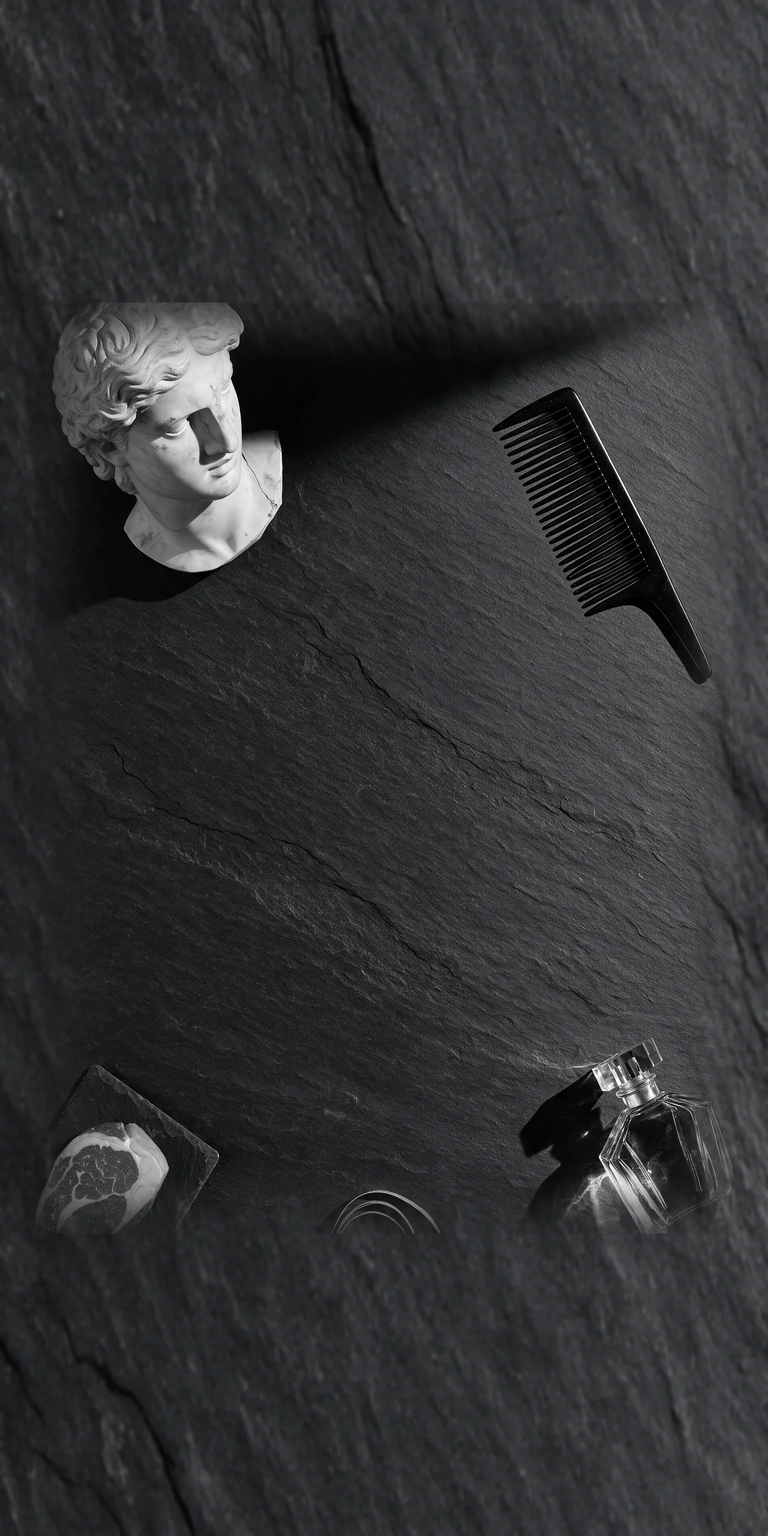
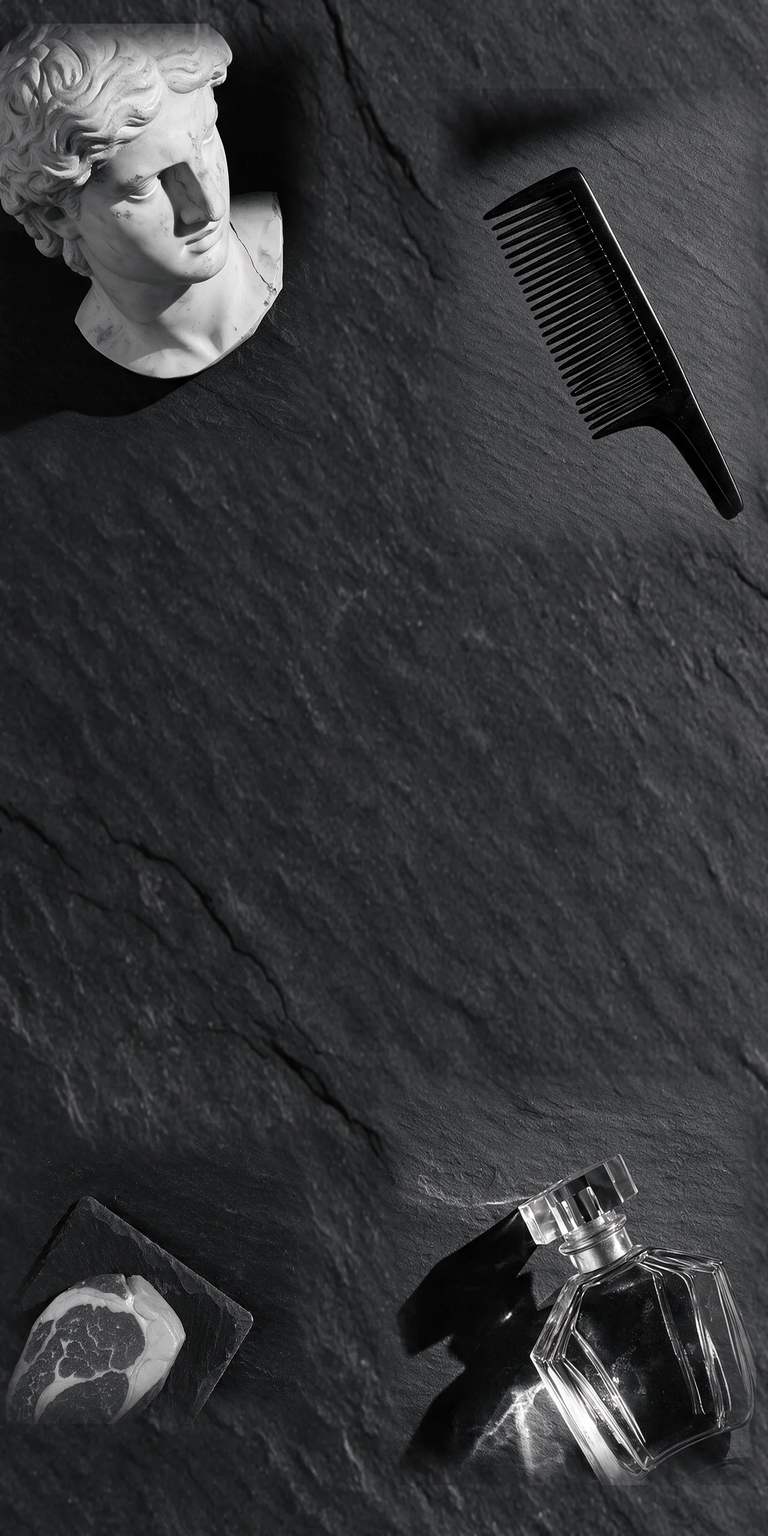
Update funnel preview

diff --git a/funnel-preview-xp13dk702fhx0w51jj/index.html b/funnel-preview-xp13dk702fhx0w51jj/index.html
@@ -341,14 +341,14 @@ try{posthog.init('phc_pcBknaZJZYx8CrCbguMRD8Aod3uTv4U9aSnKocGyS2oV',
     </div>
     <div class="wheel" id="wheel" aria-live="polite">
       <ul>
-        <li>your daily protocol</li>
-        <li>the consistency you hit</li>
-        <li>every streak you build</li>
-        <li>your progress photos</li>
-        <li>your before and after</li>
-        <li>day 30, 60 and 90</li>
-        <li>what you quietly skip</li>
-        <li>what you committed to</li>
+        <li>Your daily protocol</li>
+        <li>The consistency you hit</li>
+        <li>Every streak you build</li>
+        <li>Your progress photos</li>
+        <li>Your before and after</li>
+        <li>Day 30, 60 and 90</li>
+        <li>What you quietly skip</li>
+        <li>What you committed to</li>
       </ul>
     </div>
   </div>
@@ -382,7 +382,7 @@ try{posthog.init('phc_pcBknaZJZYx8CrCbguMRD8Aod3uTv4U9aSnKocGyS2oV',
       <h2>Frequently Asked Questions</h2>
     </div>
     <div class="faq">
-      <details class="q" open><summary>What is the catch? How is this actually free?</summary>
+      <details class="q"><summary>What is the catch? How is this actually free?</summary>
         <p>No catch. I am partnered with a billion-dollar AI company and they are covering your coaching and your build on your behalf. The only thing you cover is the platform your system gets built on, fifty dollars a month. The calls, the build, the course and the group are free.</p></details>
 
       <details class="q"><summary>Do I have to pay for anything?</summary>
@@ -483,13 +483,9 @@ try{posthog.init('phc_pcBknaZJZYx8CrCbguMRD8Aod3uTv4U9aSnKocGyS2oV',
         </div>
         <input type="tel" name="phone" placeholder="Phone number" autocomplete="tel" required>
       </div>
-      <label class="lf-consent">
-        <input type="checkbox" name="consent" required>
-        <span>I agree The Stickley Method may contact me by email, phone and text (including
-        automated) about my access. Reply STOP to opt out.</span>
-      </label>
       <input type="text" name="company" class="lf-hp" tabindex="-1" autocomplete="off" aria-hidden="true">
       <button type="submit" class="btn btn-lg">Claim My Free Course <span class="arw">&rarr;</span></button>
+      <p class="lf-note">I agree The Stickley Method may contact me by email, phone, and text about my access.</p>
       <p class="lf-err" hidden>That didn&rsquo;t go through. Check your details and tap again.</p>
     </form>
   </div>

diff --git a/funnel-preview-xp13dk702fhx0w51jj/members.html b/funnel-preview-xp13dk702fhx0w51jj/members.html
@@ -98,14 +98,14 @@
     </div>
     <div class="wheel" id="wheel" aria-live="polite">
       <ul>
-        <li>your daily protocol</li>
-        <li>the consistency you hit</li>
-        <li>every streak you build</li>
-        <li>your progress photos</li>
-        <li>your before and after</li>
-        <li>day 30, 60 and 90</li>
-        <li>what you quietly skip</li>
-        <li>what you committed to</li>
+        <li>Your daily protocol</li>
+        <li>The consistency you hit</li>
+        <li>Every streak you build</li>
+        <li>Your progress photos</li>
+        <li>Your before and after</li>
+        <li>Day 30, 60 and 90</li>
+        <li>What you quietly skip</li>
+        <li>What you committed to</li>
       </ul>
     </div>
   </div>
@@ -285,13 +285,9 @@
         </div>
         <input type="tel" name="phone" placeholder="Phone number" autocomplete="tel" required>
       </div>
-      <label class="lf-consent">
-        <input type="checkbox" name="consent" required>
-        <span>I agree The Stickley Method may contact me by email, phone and text (including
-        automated) about my access. Reply STOP to opt out.</span>
-      </label>
       <input type="text" name="company" class="lf-hp" tabindex="-1" autocomplete="off" aria-hidden="true">
       <button type="submit" class="btn btn-lg">Yes, I Want This <span class="arw">&rarr;</span></button>
+      <p class="lf-note">I agree The Stickley Method may contact me by email, phone, and text about my access.</p>
       <p class="lf-err" hidden>That didn&rsquo;t go through. Check your details and tap again.</p>
     </form>
   </div>

diff --git a/funnel-preview-xp13dk702fhx0w51jj/style.css b/funnel-preview-xp13dk702fhx0w51jj/style.css
@@ -577,3 +577,12 @@ footer{border-top:1px solid var(--line);padding:56px 0 70px;text-align:center;ba
   padding:11px 15px;color:var(--text);font:500 .92rem var(--body);cursor:pointer;text-align:left}
 .lf-cc-item:hover,.lf-cc-item.sel{background:rgba(14,196,230,.1)}
 .lf-cc-item .d{margin-left:auto;color:var(--dim);font-variant-numeric:tabular-nums}
+
+/* ── modal consent line + close position ───────────────────────────────── */
+.lf-note{color:var(--dim);font-size:.76rem;line-height:1.5;margin:10px 0 0;text-align:center}
+@media(max-width:480px){.lmodal-x{top:6px;right:9px}}
+/* how-is-this-free CTA centred on mobile */
+@media(max-width:780px){.cta-mid-mobile{text-align:center}}
+/* the claim section is far shorter than the tall mobile art, and centring it
+   sliced the statue's head. Anchor to the bottom half, steak and bottle. */
+@media(max-width:780px){.claim-scene::before{background-position:center bottom}}

diff --git a/funnel-preview-xp13dk702fhx0w51jj/funnel.js b/funnel-preview-xp13dk702fhx0w51jj/funnel.js
@@ -125,7 +125,6 @@ document.querySelectorAll('.ba').forEach(function (ba) {
       company: f.company.value,
       source: f.dataset.source === 'members' ? 'members' : 'main'
     };
-    if (f.consent && !f.consent.checked) { err.hidden = false; return; }
     if (data.name.length < 2 || data.email.indexOf('@') < 1 || data.phone.replace(/\D/g, '').length < 7) {
       err.hidden = false; return;
     }
